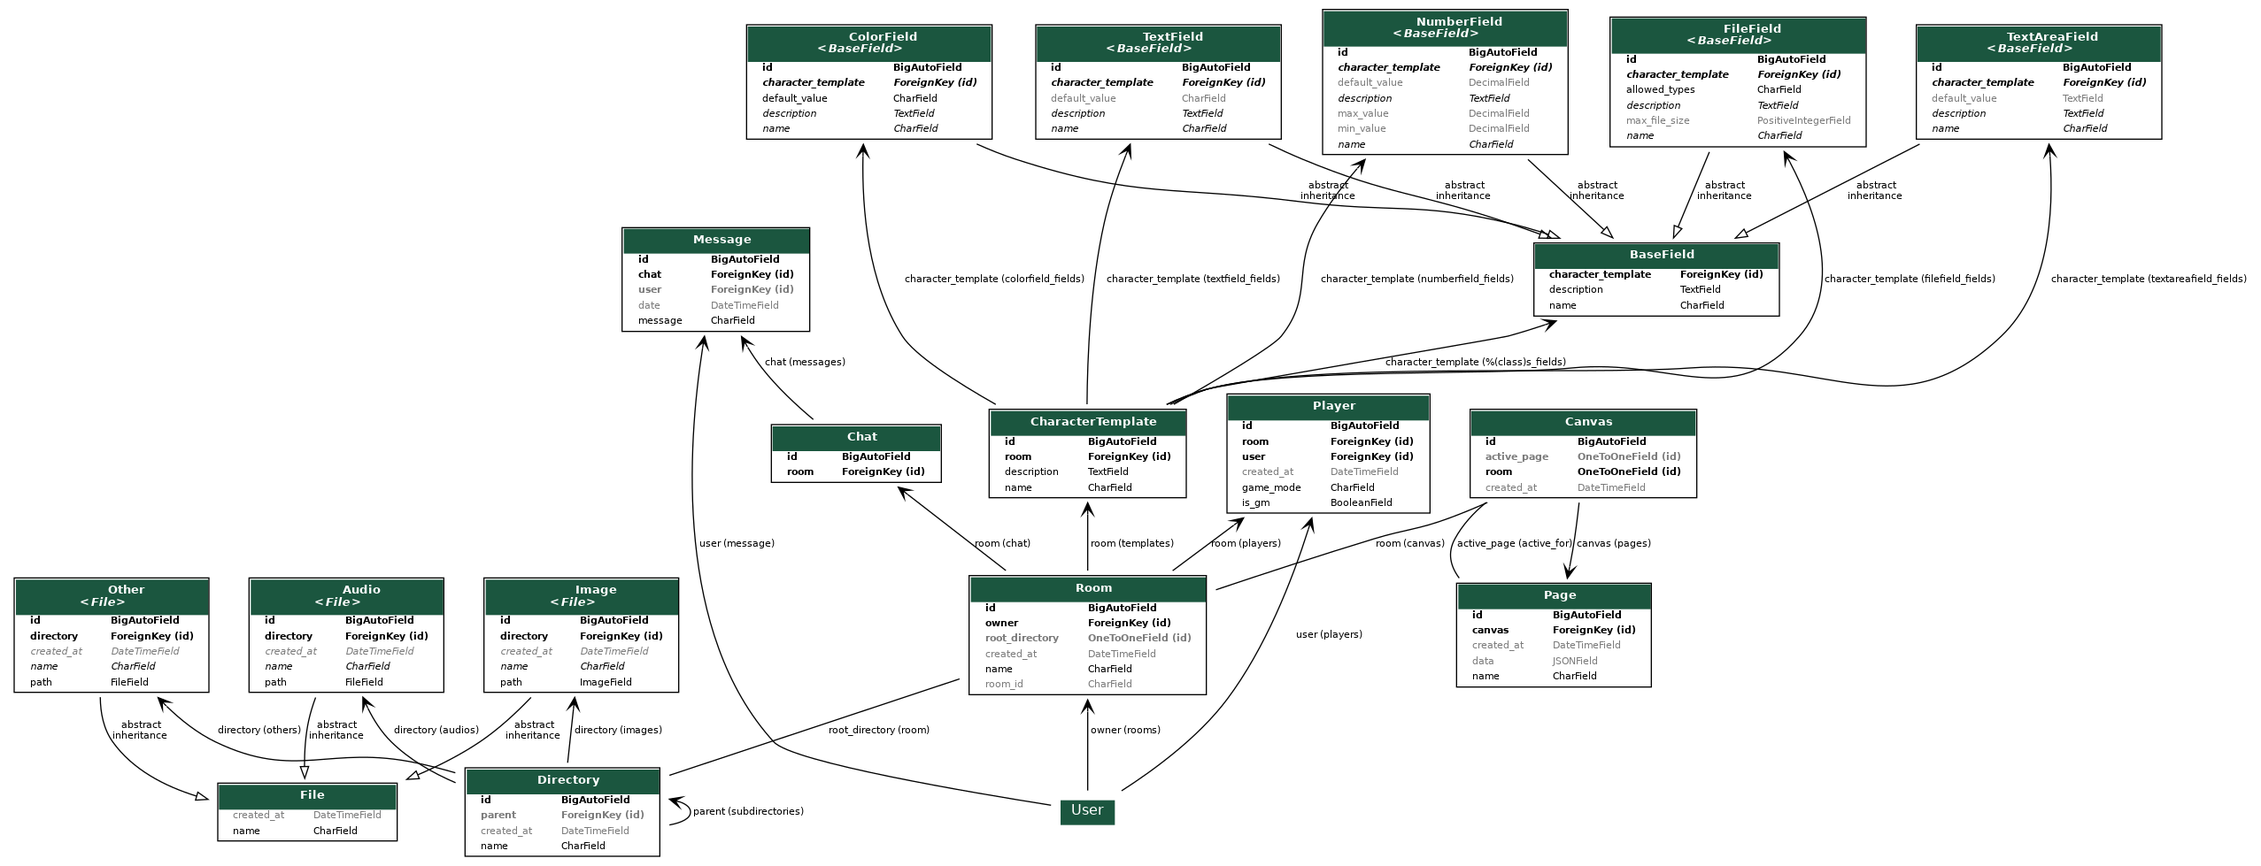
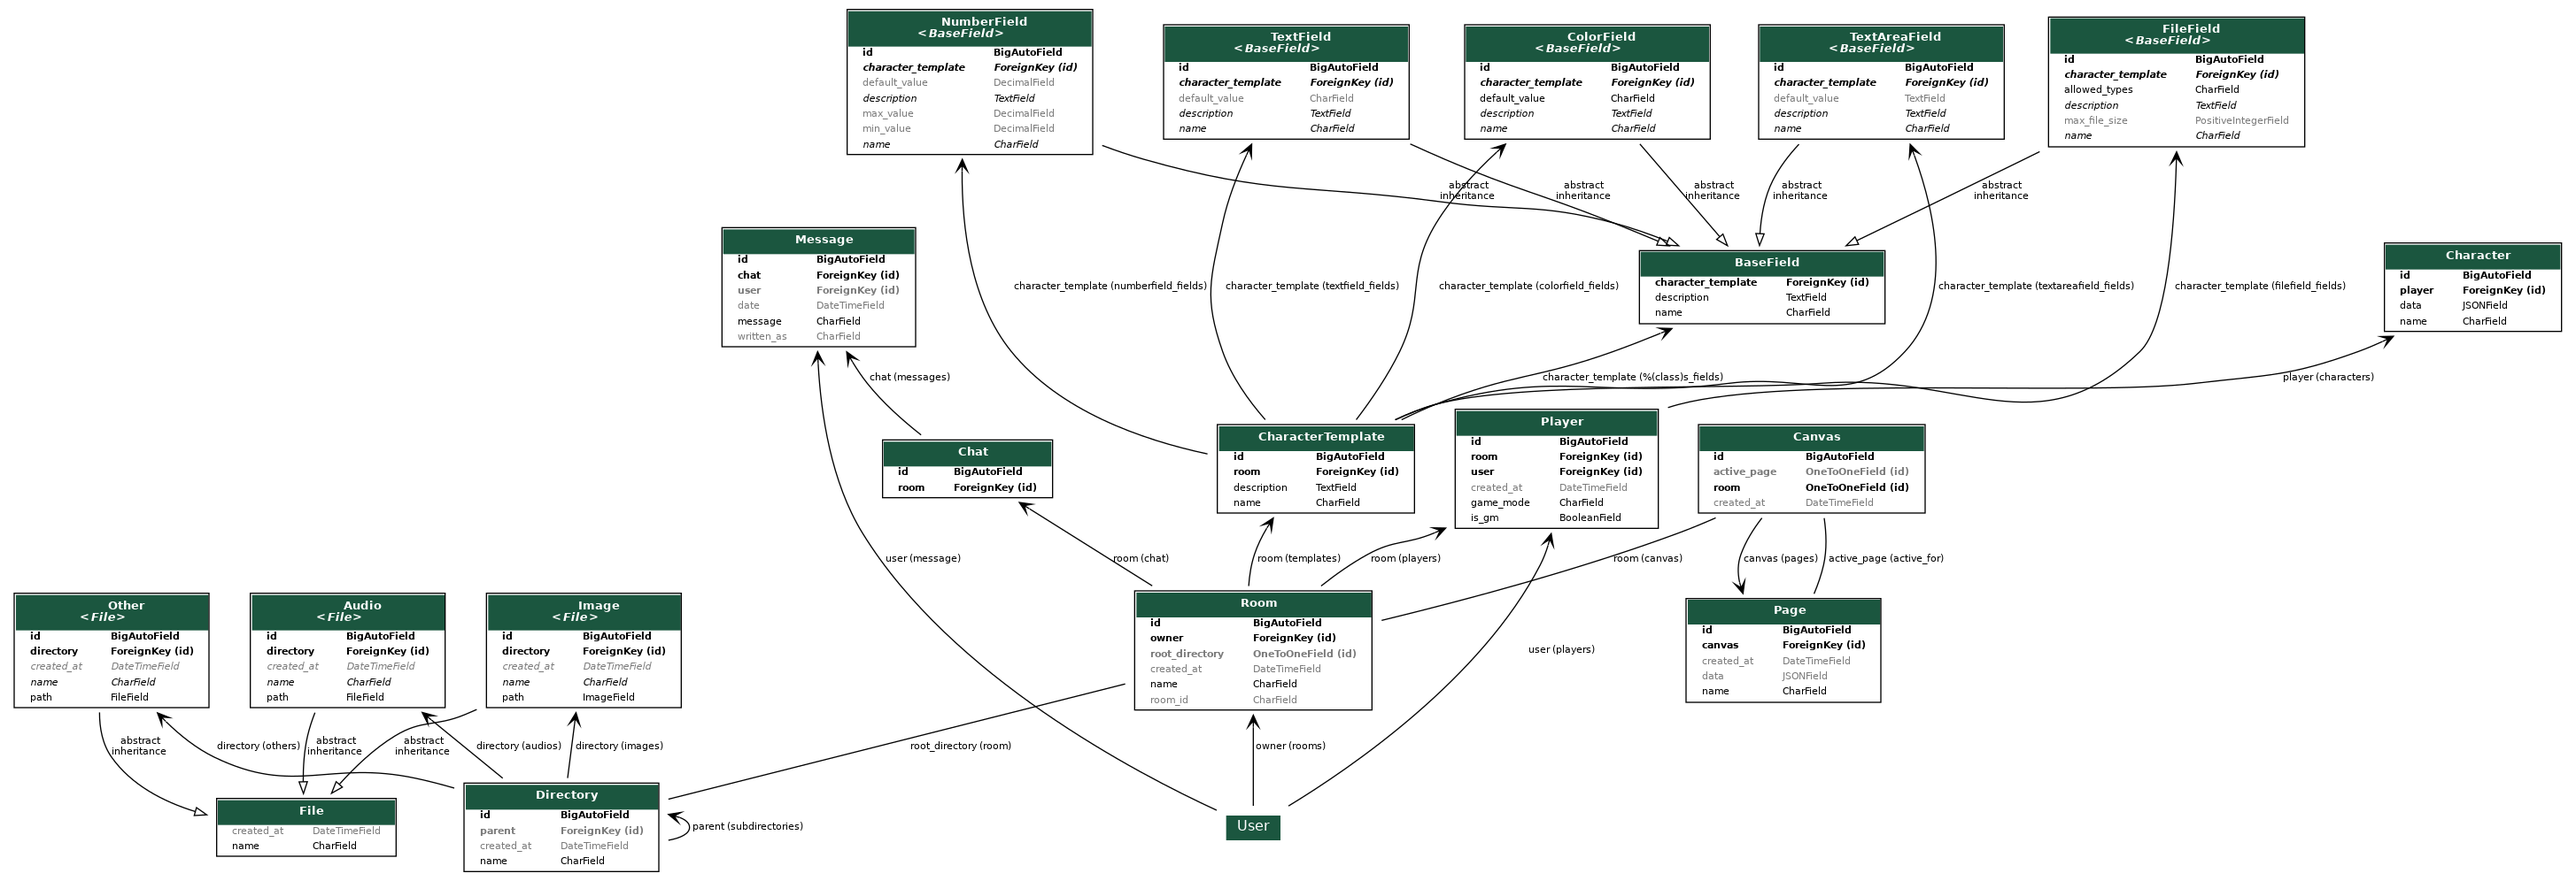
main.Backend-Server-ADD-Multi-Character-Chat

diff --git a/frontend/src/Rooms/Chat.jsx b/frontend/src/Rooms/Chat.jsx
@@ -1,4 +1,4 @@
-import React, { useState, useEffect, useContext } from 'react';
+import React, { useState, useEffect, useContext, useRef } from 'react';
 import { w3cwebsocket as WebSocket } from 'websocket';
 import { RoomContext } from '../context/allContext';
 
@@ -8,6 +8,13 @@ const Chat = () => {
   const [message, setMessage] = useState('');
   const {activeRoom} = useContext(RoomContext)
   
+  const messagesEndRef = useRef(null);
+
+  useEffect(() => {
+    messagesEndRef.current.scrollTop = messagesEndRef.current.scrollHeight;
+  }, [messages]);
+
+
   useEffect(() => {
     if (activeRoom){
       const newClient = new WebSocket(`ws://172.18.0.2:8000/ws/room/${activeRoom.name.replace(' ', '_')}/${activeRoom.room_id}/`);
@@ -31,23 +38,60 @@ const Chat = () => {
   }, [activeRoom]);
 
   const sendMessage = () => {
-    client.send(JSON.stringify({ message }));
+    const data = {
+      message: message,
+      written_as: selectedName
+    };
+    client.send(JSON.stringify({ data }));
     setMessage('');
   };
 
+  const names = ["John", "Alice", "Bob", "Emily", "David"];
+
+  const [selectedName, setSelectedName] = useState(names[0]);
+
   return (
-    <div>
-      <div>
+    <div className="container">
+      <div className="row">
+        <div className="col" style={{ maxHeight: "70vh", overflowY: "scroll", wordBreak: "break-word", marginBottom:"20px" }} ref={messagesEndRef}>
         {messages.map((message, index) => (
-          <p key={index}>{message.message}</p>
+          <p key={index}>
+            {message.written_as}: {message.message}
+          </p>
         ))}
+        </div>
       </div>
-      <div>
-        <input value={message} onChange={e => setMessage(e.target.value)} />
-        <button onClick={sendMessage}>Send</button>
+      <div className="row p-3" style={{ height: "30vh", paddingTop: "20px" }}>
+        <div className="col" style={{ backgroundColor: "#444444", position: "absolute", bottom: 0, left: 0, right: 0, paddingTop: "10px" }}>
+          <input
+            className="form-control mb-3"
+            value={message}
+            onChange={(e) => setMessage(e.target.value)}
+          />
+          <div className="row">
+            <div className="col-auto">
+              <select
+                className="form-select mb-3"
+                onChange={(e) => setSelectedName(e.target.value)}
+              >
+                {names.map((name) => (
+                  <option key={name} value={name}>
+                    {name}
+                  </option>
+                ))}
+              </select>
+            </div>
+            <div className="col-auto text-end">
+              <button className="btn btn-primary" onClick={sendMessage}>
+                Send
+              </button>
+            </div>
+          </div>
+        </div>
       </div>
     </div>
   );
 };
 
 export default Chat;
+

diff --git a/backend/core/consumers.py b/backend/core/consumers.py
@@ -27,24 +27,32 @@ class RoomConsumer(AsyncWebsocketConsumer):
     # Receive message from WebSocket
     async def receive(self, text_data):
         text_data_json = json.loads(text_data)
-        message = text_data_json['message']
+        print("\n\n\n==============\n\n\n")
+        print(text_data_json)
+        print("\n\n\n==============\n\n\n")
+        data = text_data_json['data']
+        message = data['message']
+        written_as = data['written_as']
 
         # Send message to room group
         await self.channel_layer.group_send(
-            self.room_group_name,
-            {
-                'type': 'chat_message',
-                'message': message
-            }
-        )
+        self.room_group_name,
+        {
+            'type': 'chat_message',
+            'message': message,
+            'written_as': written_as,
+        }
+    )
 
     # Receive message from room group
     async def chat_message(self, event):
         message = event['message']
+        written_as = event['written_as']
 
         # Send message to WebSocket
         await self.send(text_data=json.dumps({
-            'message': message
+            'message': message,
+            'written_as': written_as
         }))
 
         # Create mensaje en la base de datos
@@ -52,5 +60,6 @@ class RoomConsumer(AsyncWebsocketConsumer):
             room_name=self.room_name,
             room_id=self.room_id,
             user_id=None,
-            message=message
+            message=message,
+            written_as=written_as,
         )

diff --git a/backend/core/models.py b/backend/core/models.py
@@ -108,6 +108,7 @@ class Message(models.Model):
     user = models.ForeignKey(User, on_delete=models.CASCADE, null=True, blank=True)
     message = models.CharField(max_length=255)
     date = models.DateTimeField(auto_now_add=True)
+    written_as = models.CharField(max_length=50,null=True, blank=True)
 
 class CharacterTemplate(models.Model):
     name = models.CharField(max_length=255)
@@ -150,3 +151,10 @@ class FileField(BaseField):
     allowed_types = models.CharField(_('allowed file types'), max_length=255, help_text=_('Enter one allowed file type per line.'))
     max_file_size = models.PositiveIntegerField(_('maximum file size (in bytes)'), null=True, blank=True)
 
+class Character(models.Model):
+    player = models.ForeignKey(Player, on_delete=models.CASCADE, related_name='characters')
+    name = models.CharField(max_length=255)
+    data = models.JSONField()
+
+    def __str__(self):
+        return self.name

diff --git a/backend/core/services.py b/backend/core/services.py
@@ -2,7 +2,7 @@ from channels.db import database_sync_to_async
 from .models import Room, Message
 
 @database_sync_to_async
-def create_mensaje(room_name, room_id, user_id, message):
+def create_mensaje(room_name, room_id, user_id, message,written_as):
     # obtener el chat de la habitación
     chat = Room.objects.get(name=room_name, room_id=room_id).chat.get()
 
@@ -10,6 +10,7 @@ def create_mensaje(room_name, room_id, user_id, message):
     mensaje = Message(
         chat=chat,
         user_id=user_id,
-        message=message
+        message=message,
+        written_as=written_as
     )
     mensaje.save()

diff --git a/backend/core/serializers.py b/backend/core/serializers.py
@@ -63,7 +63,7 @@ class DirectorySerializer(serializers.ModelSerializer):
 class MensajeSerializer(serializers.ModelSerializer):
     class Meta:
         model = Message
-        fields = ('id', 'user', 'message', 'date')
+        fields = ('id', 'user', 'message', 'date','written_as')
 
 class ChatSerializer(serializers.ModelSerializer):
     mensajes = MensajeSerializer(many=True, read_only=True)
